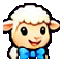
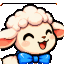
Pets novos (ovelhinha, cordeirinho, pardal) sem corte; pet ao lado do personagem no lobby

diff --git a/src/scenes/lobby.js b/src/scenes/lobby.js
@@ -1,6 +1,7 @@
 // The main screen (lobby): the player's character big in the middle, rank,
 // coins, and buttons to play, enter the Arena, open boxes and more.
 
+import { petState } from '../world/pet.js';
 import { h } from '../ui/dom.js';
 import { ensureAccount } from '../cloud/account-ui.js';
 import { checkWeekPrize } from '../cloud/account.js';
@@ -25,12 +26,16 @@ export function createLobbyScene(game) {
   const stars = new Starfield(120);
   let t = 0;
   let dir = 0;
+  let petId = '';
   let stage = null;
   let timer = 0;
   const sparkles = [];
 
   return {
     async enter(_p, ui) {
+      // the equipped pet stands next to the character (companion)
+      petId = petState(game.save).on || '';
+      if (petId && game.assets.entry(`pet.${petId}`)) game.assets.ensure(`pet.${petId}`).catch(() => {});
       const enteredAt = Date.now();
       const save = game.save;
       game.extras = game.extras || await loadExtras(game.assets);
@@ -239,6 +244,20 @@ export function createLobbyScene(game) {
       const frame = walk[Math.floor(t * 5) % walk.length];
       const bob = Math.round(Math.sin(t * 2) * scale);
       ctx.drawImage(entry.image, frame * f, dir * f, f, f, Math.round(c.x - size / 2), baseY - size + bob, size, size);
+      const pe = petId && game.assets.entry(`pet.${petId}`);
+      if (pe && pe.image && !pe.placeholder) {
+        const ps = Math.round(size * 0.5), px = Math.round(c.x + size * 0.34), cyc = t % 7;
+        const row = cyc > 6 ? 4 : dir === 3 ? 2 : dir === 0 ? 0 : 1; // a happy hop every few seconds
+        const pf = Math.floor(t * (row === 4 ? 8 : 5)) % 4;
+        ctx.fillStyle = 'rgba(0,0,0,.3)';
+        ctx.beginPath(); ctx.ellipse(px, baseY, ps * 0.32, ps * 0.09, 0, 0, Math.PI * 2); ctx.fill();
+        ctx.save();
+        ctx.translate(px, baseY);
+        if (row === 1 && dir === 1) ctx.scale(-1, 1); // the side row faces right
+        ctx.imageSmoothingEnabled = false;
+        ctx.drawImage(pe.image, pf * 32, row * 32, 32, 32, -ps / 2, -ps + 1, ps, ps);
+        ctx.restore();
+      }
     },
   };
 }

diff --git a/index.html b/index.html
@@ -16,7 +16,7 @@
   <link rel="preconnect" href="https://fonts.googleapis.com">
   <link rel="preconnect" href="https://fonts.gstatic.com" crossorigin>
   <link href="https://fonts.googleapis.com/css2?family=Atkinson+Hyperlegible:wght@400;700&family=Atkinson+Hyperlegible+Mono:wght@500;700&family=Pixelify+Sans:wght@400;600;700&display=swap" rel="stylesheet">
-  <link rel="stylesheet" href="css/style.css?v=97">
+  <link rel="stylesheet" href="css/style.css?v=98">
 </head>
 <body>
   <main id="game" aria-label="Gênesis">
@@ -44,6 +44,6 @@
   </main>
 
   <noscript>Para jogar, ative o JavaScript do navegador.</noscript>
-  <script type="module" src="src/main.js?v=97"></script>
+  <script type="module" src="src/main.js?v=98"></script>
 </body>
 </html>

diff --git a/sw.js b/sw.js
@@ -5,7 +5,7 @@
 //   * on the first visit every file listed in precache.json is downloaded
 //   * iPhones ask for audio in pieces (Range): answered from the cache
 
-const VERSION = 72;
+const VERSION = 73;
 const CODE = `genesis-code-v${VERSION}`;
 const MEDIA = 'genesis-media'; // big files: not deleted when the code changes
 
